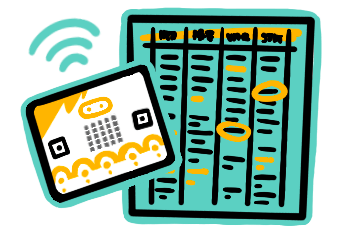
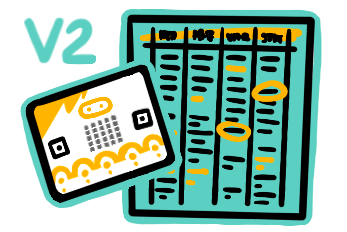
data logger updates to match codal serial (#4182)
* move serial writing handling to codal/sim

* serial typo

* clear log on code changed

* V2

* make sure there are enough commas

* clear on runoptions id

* V2 in -strings

* update icon

* also don't count undefined as valid output

* quick css fix for homescreen banner

Changed region(s): [[0.0576, 0.0603, 0.2882, 0.3319], [0.4035, 0.0302, 0.8646, 0.0603]]

diff --git a/sim/state/flashlog.ts b/sim/state/flashlog.ts
@@ -1,33 +1,37 @@
 namespace pxsim.flashlog {
+    enum FlashLogTimeStampFormat {
+        None = 0,
+        Milliseconds = 1,
+        Seconds = 10,
+        Minutes = 600,
+        Hours = 36000,
+        Days = 864000,
+    }
     // we don't store the flash log in the runtime object, since it's persistent
     let headers: string[] = []
-    let rows: {
-        text: string,
-        timestamp: number
-    }[] = []
     let currentRow: string[] = undefined
     let SEPARATOR = ","
-    let timestampFormat: number = undefined
+    let timestampFormat: FlashLogTimeStampFormat = undefined
+    let mirrorToSerial = false;
     let logSize = 0;
+    let committedCols = 0;
     /** allocated flash size **/
     const logEnd = 121852;
 
-    function ensureV2() {
+    let lastRunId: string;
+    function init() {
         const b = board();
         if (!b) return;
+        if (b.runOptions.id !== lastRunId) {
+            lastRunId = b.runOptions.id;
+            erase();
+        }
         b.ensureHardwareVersion(2);
     }
 
-    function commitRow(text: string) {
+    function commitRow(data: string) {
         if (!runtime) return;
-
-        const timestamp = runtime.runningTime()
-        rows.push({ text, timestamp })
-        // TODO: maybe do something better here
-        // send data to simulator
-
-        const timeUnit = timestampFormat > 1 ? timestampFormat * 100 : timestampFormat;
-        const data = `${text}${timeUnit ? `${SEPARATOR}${(timestamp / timeUnit)}` : ""}\n`;
+        data += "\n";
 
         /** edge 18 does not support text encoder, so fall back to length **/
         logSize += TextEncoder ? (new TextEncoder().encode(data)).length : data.length;
@@ -35,33 +39,36 @@ namespace pxsim.flashlog {
             board().bus.queue(DAL.MICROBIT_ID_LOG, DAL.MICROBIT_LOG_EVT_LOG_FULL);
             clear(false);
         }
-        // Runtime.postMessage(<SimulatorSerialMessage>{
-        //     type: 'serial',
-        //     data,
-        //     id: runtime.id,
-        //     sim: true
-        // })
+        if (mirrorToSerial) {
+            board().serialState.writeSerial(data);
+        }
     }
 
     export function beginRow(): number {
-        ensureV2()
+        init()
         if (currentRow)
             return DAL.DEVICE_INVALID_STATE
         currentRow = []
         return DAL.DEVICE_OK
     }
 
-    export function logData(key: string, value: string) {
-        ensureV2()
+    export function logData(key: string, value: string, prepend = false) {
+        init()
         if (!currentRow)
             return DAL.DEVICE_INVALID_STATE
 
         // find header index
         let index = headers.indexOf(key)
         if (index < 0) {
-            headers.push(key)
-            index = headers.length - 1
-            logSize += key.length;
+            if (prepend) {
+                /** push timestamps up to front of uncommitted rows **/
+                headers.splice(committedCols, 0, key);
+                currentRow.splice(committedCols, 0, value);
+                index = committedCols;
+            } else {
+                headers.push(key)
+                index = headers.length - 1
+            }
         }
 
         // store
@@ -71,33 +78,82 @@ namespace pxsim.flashlog {
     }
 
     export function endRow(): number {
-        ensureV2()
+        init()
         if (!currentRow)
             return DAL.DEVICE_INVALID_STATE
-        const line = currentRow.join(SEPARATOR)
-        currentRow = undefined
-        commitRow(line)
-        return DAL.DEVICE_OK
+        if (!currentRow.some(el => el !== "" && el != undefined))
+            return DAL.DEVICE_OK;
+
+        if (timestampFormat !== FlashLogTimeStampFormat.None && mirrorToSerial) {
+            let unit = "";
+            switch(timestampFormat) {
+                case FlashLogTimeStampFormat.Milliseconds:
+                    unit = "milliseconds"
+                    break;
+                case FlashLogTimeStampFormat.Minutes:
+                    unit = "minutes";
+                    break;
+                case FlashLogTimeStampFormat.Hours:
+                    unit = "hours";
+                    break;
+                case FlashLogTimeStampFormat.Days:
+                    unit = "days";
+                    break;
+                case FlashLogTimeStampFormat.Seconds:
+                default:
+                    unit = "seconds";
+                    break;
+            }
+
+            const timestamp = runtime.runningTime();
+
+            const timeUnit = timestampFormat > 1 ? timestampFormat * 100 : timestampFormat;
+            const timeValue = timestamp / timeUnit;
+            // TODO: there's a semi complicated format conversion
+            // over in MicroBitLog::endRow that we might want to replicate.
+            // https://github.com/lancaster-university/codal-microbit-v2/blob/master/source/MicroBitLog.cpp#L405
+            logData(`time (${unit})`, "" + timeValue, true /** Prepend before new headers */);
+        }
+
+        currentRow.length = headers.length;
+        const line = currentRow.join(SEPARATOR);
+        if (headers.length !== committedCols) {
+            commitRow(headers.join(SEPARATOR))
+            committedCols = headers.length;
+        }
+        currentRow = undefined;
+
+        commitRow(line);
+        return DAL.DEVICE_OK;
     }
 
     export function logString(s: string) {
-        ensureV2()
+        init()
         if (!s) return
 
         commitRow(s)
     }
 
     export function clear(fullErase: boolean) {
-        ensureV2()
-        rows = []
+        init()
+        erase();
+    }
+
+    function erase() {
         headers = []
         logSize = 0;
+        committedCols = 0;
         currentRow = undefined;
     }
 
-    export function setTimeStamp(format: number) {
-        ensureV2()
+    export function setTimeStamp(format: FlashLogTimeStampFormat) {
+        init()
         // this option is probably not serialized, needs to move in state
         timestampFormat = format
+    }
+
+    export function setSerialMirroring(enabled: boolean) {
+        init();
+        mirrorToSerial = !!enabled;
     }
 }

diff --git a/libs/datalogger/datalogger.ts b/libs/datalogger/datalogger.ts
@@ -13,8 +13,6 @@ namespace datalogger {
     }
 
     let onLogFullHandler: () => void;
-    let _mirrorToSerial = true;
-    let _timestampFormat = FlashLogTimeStampFormat.Seconds;
     let _disabled = false;
 
     let initialized = false;
@@ -23,7 +21,8 @@ namespace datalogger {
             return;
         initialized = true;
 
-        includeTimestamp(_timestampFormat);
+        includeTimestamp(FlashLogTimeStampFormat.Seconds);
+        mirrorToSerial(true);
 
         control.onEvent(DAL.MICROBIT_ID_LOG, DAL.MICROBIT_LOG_EVT_LOG_FULL, () => {
             _disabled = true;
@@ -63,7 +62,7 @@ namespace datalogger {
     //% block="column $column value $value"
     //% value.shadow=math_number
     //% blockId=dataloggercreatecolumnvalue
-    //% group="micro:bit (v2)"
+    //% group="micro:bit (V2)"
     //% weight=80
     export function createCV(column: string, value: any): ColumnValue {
         return new ColumnValue(column, value);
@@ -77,49 +76,12 @@ namespace datalogger {
     //% blockId=dataloggerlogdata
     //% data.shadow=lists_create_with
     //% data.defl=dataloggercreatecolumnvalue
-    //% group="micro:bit (v2)"
+    //% group="micro:bit (V2)"
     //% weight=100
     export function logData(data: ColumnValue[]): void {
         if (!data || !data.length)
             return;
         init();
-
-        if (_timestampFormat && _mirrorToSerial) {
-            let unit = "";
-            switch(_timestampFormat) {
-                case FlashLogTimeStampFormat.Milliseconds:
-                    unit = "milliseconds"
-                    break;
-                case FlashLogTimeStampFormat.Seconds:
-                    unit = "seconds";
-                    break;
-                case FlashLogTimeStampFormat.Minutes:
-                    unit = "minutes";
-                    break;
-                case FlashLogTimeStampFormat.Hours:
-                    unit = "hours";
-                    break;
-                case FlashLogTimeStampFormat.Days:
-                default:
-                    unit = "days";
-            }
-            // TODO: if we don't move it to CODAL and want the display of the time given
-            // to serial to match the time written to device, there's a semi complicated format conversion
-            // over in MicroBitLog::endRow that would need replicating.
-            // https://github.com/lancaster-university/codal-microbit-v2/blob/master/source/MicroBitLog.cpp#L405
-            const timeUnit = _timestampFormat > 1 ? _timestampFormat * 100 : _timestampFormat;
-            serial.writeLine(`Time (${unit}): ${control.millis() / timeUnit}`)
-        }
-
-        for (const cv of data) {
-            if (_mirrorToSerial && cv.value != "") {
-                serial.writeLine(`${cv.column}: ${cv.value}`);
-                // todo: should mirror to serial be in exact same format as row?
-                // if so, we'd probably need to either mirror to serial in codal itself
-                // or add a 'read last row' function to codal, to get order correct
-                // and to get the same timestamp.
-            }
-        }
 
         if (_disabled)
             return;
@@ -138,16 +100,13 @@ namespace datalogger {
     //% block="set columns $cols"
     //% blockId=dataloggersetcolumns
     //% data.shadow=list_create_with
-    //% group="micro:bit (v2)"
+    //% group="micro:bit (V2)"
     //% weight=70
     export function setColumns(cols: string[]): void {
         if (!cols)
             return;
-        init();
-        const fmt = _timestampFormat;
-        includeTimestamp(FlashLogTimeStampFormat.None);
+
         logData(cols.map(col => createCV(col, "")));
-        includeTimestamp(fmt);
     }
 
     /**
@@ -157,7 +116,7 @@ namespace datalogger {
      */
     //% block="delete log||$deleteType"
     //% blockId=dataloggerdeletelog
-    //% group="micro:bit (v2)"
+    //% group="micro:bit (V2)"
     //% weight=60
     export function deleteLog(deleteType?: DeleteType): void {
         init();
@@ -171,7 +130,7 @@ namespace datalogger {
      */
     //% block="on log full"
     //% blockId="on log full"
-    //% group="micro:bit (v2)"
+    //% group="micro:bit (V2)"
     //% weight=40
     export function onLogFull(handler: () => void): void {
         init();
@@ -185,12 +144,11 @@ namespace datalogger {
     //% block="set timestamp $format"
     //% blockId=dataloggertoggleincludetimestamp
     //% format.defl=FlashLogTimeStampFormat.None
-    //% group="micro:bit (v2)"
+    //% group="micro:bit (V2)"
     //% weight=30
     export function includeTimestamp(format: FlashLogTimeStampFormat): void {
         init();
-        _timestampFormat = format;
-        flashlog.setTimeStamp(_timestampFormat);
+        flashlog.setTimeStamp(format);
     }
 
     /**
@@ -206,6 +164,6 @@ namespace datalogger {
         // TODO:/note intentionally does not have group, as having the same group for all
         // blocks in a category causes the group to be elided.
         init();
-        _mirrorToSerial = !!on;
+        flashlog.setSerialMirroring(on);
     }
 }

diff --git a/libs/flashlog/shims.d.ts b/libs/flashlog/shims.d.ts
@@ -64,6 +64,17 @@ declare namespace flashlog {
     //% blockGap=8
     //% group="micro:bit (V2)" shim=flashlog::setTimeStamp
     function setTimeStamp(format: FlashLogTimeStampFormat): void;
+
+    /**
+     * Defines if data logging should also be streamed over the serial port.
+     *
+     * @param enable True to enable serial port streaming, false to disable.
+     */
+    //% help=flashlog/set-serial-mirroring
+    //% parts="flashlog"
+    //% blockGap=8
+    //% group="micro:bit (V2)" shim=flashlog::setSerialMirroring
+    function setSerialMirroring(enable: boolean): void;
 }
 
 // Auto-generated. Do not edit. Really.

diff --git a/sim/state/serial.ts b/sim/state/serial.ts
@@ -8,7 +8,7 @@ namespace pxsim {
         }
 
         private handleMessage(msg: SimulatorMessage) {
-            if (msg.type === "seria") {
+            if (msg.type === "serial") {
                 const data = (<SimulatorSerialMessage>msg).data || "";
                 this.receiveData(data);
             }

diff --git a/theme/style.less b/theme/style.less
@@ -58,10 +58,6 @@
 }
 
 #homescreen .ui.home {
-    .getting-started-segment {
-        background-position: 50% 25%;
-    }
-
     .detailview .actions .card-action {
         .button.approve {
             background-color: @mainMenuTutorialBackground;

diff --git a/libs/flashlog/flashlog.cpp b/libs/flashlog/flashlog.cpp
@@ -120,4 +120,20 @@ void setTimeStamp(FlashLogTimeStampFormat format) {
 #endif
 }
 
+/**
+ * Defines if data logging should also be streamed over the serial port.
+ *
+ * @param enable True to enable serial port streaming, false to disable.
+*/
+//% help=flashlog/set-serial-mirroring
+//% parts="flashlog"
+//% blockGap=8
+//% group="micro:bit (V2)"
+void setSerialMirroring(bool enable) {
+#if MICROBIT_CODAL
+    // TODO: Uncomment when codal bumped to include this fn
+    // return uBit.log.setSerialMirroring(enable);
+#endif
+}
+
 }
